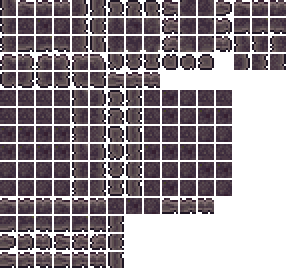
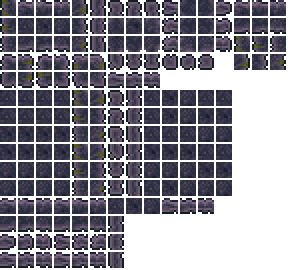
Cursed Spirit charging glowup + minor shit
(Spritesheet updates, cursed spirit stat adjustment/ scaling, spirit visual touchups, whatever)

diff --git a/src/EvilExpansionMod/Content/Corruption/NPCs/_Effigy/CursedSpiritNPC.cs b/src/EvilExpansionMod/Content/Corruption/NPCs/_Effigy/CursedSpiritNPC.cs
@@ -21,7 +21,6 @@ using Terraria.ModLoader;
 using Daybreak.Common.Rendering;
 
 namespace EvilExpansionMod.Content.Corruption;
-
 public enum SpiritType {
     Splitter,
     Exploder,
@@ -109,6 +108,7 @@ public sealed class CursedSpiritNPC : ModNPC {
         NPC.width = 38;
         NPC.height = 38;
         NPC.lifeMax = MaxLife;
+        NPC.defense = 28;
         NPC.value = 150;
         NPC.noTileCollide = true;
         NPC.aiStyle = -1;
@@ -144,8 +144,9 @@ public sealed class CursedSpiritNPC : ModNPC {
             _trailPositions[i] = NPC.Center;
         }
 
-        SpiritType = SpiritType.Ram;
+        SpiritType = (SpiritType)Main.rand.Next(0, 3);
         //SpiritType = (SpiritType)Main.rand.Next(0, 3);
+        //SpiritType = SpiritType.XXX;
         switch(SpiritType) {
             case SpiritType.Splitter:
                 _data.Splitter = new()
@@ -317,7 +318,7 @@ public sealed class CursedSpiritNPC : ModNPC {
                         ExplosionProjectile.New(
                             NPC.GetSource_Death(),
                             NPC.Center,
-                            40,
+                            (int)(NPC.damage*1.5 / difficultyScaler),
                             Color.Yellow,
                             Color.LightGoldenrodYellow,
                             size: ExplosionRange,
@@ -353,10 +354,42 @@ public sealed class CursedSpiritNPC : ModNPC {
             case RamState.Charge:
                 UpdateLookDirection(directionToTarget);
 
-                NPC.velocity *= 0.99f;
+                NPC.velocity *= 0.98f;
+
+                Dust.NewDust(NPC.Center + Main.rand.NextVector2Circular(15, 15) + Main.rand.NextVector2Circular(15, 15), 2, 2, DustID.CursedTorch, Main.rand.NextFloat(-3f, 3f), Main.rand.NextFloat(-3f, 3f), 0, new Color(207, 255, 0));
+                var particle = SmokeParticle.Pool.RequestParticle();
+
+                Vector2 randomVelocity = new Vector2(
+                    Main.rand.NextFloat(-1.5f, 1.5f),
+                    Main.rand.NextFloat(-2f, -0.5f)
+                );
+
+                Color smokeColor = Color.Lerp(Color.White, Color.Black, Main.rand.NextFloat());
+                float scale = Main.rand.NextFloat(0.1f, 1.2f);
+                int lifetime = Main.rand.Next(40, 90);
+
+                particle.Spawn(NPC.Center + Main.rand.NextVector2Circular(15, 45), randomVelocity, smokeColor, scale, lifetime);
+
                 if(Timer > 60 * 1.5f && Main.netMode != NetmodeID.MultiplayerClient) {
                     _data.Ram.DashDirection = directionToTarget;
-                    NPC.velocity = _data.Ram.DashDirection * 0.8f;
+                    if(Main.expertMode) {
+                        NPC.velocity = _data.Ram.DashDirection * 32f;
+                    }
+                    else {
+                        NPC.velocity = _data.Ram.DashDirection * 25f;
+                    }
+                    float difficultyScaler = Main.expertMode ? (Main.masterMode ? 3f : 2f) : 1f;
+                    Projectile.NewProjectile(
+                        NPC.GetSource_FromAI(),
+                        NPC.Center,
+                        new Microsoft.Xna.Framework.Vector2(0f, 0f),
+                        ModContent.ProjectileType<SpiritContactExplosion>(),
+                        (int)(NPC.damage / difficultyScaler),
+                        //For the projectile damage, I have no idea why it deals double the value of the damage given by the above equation! Compensate in equation
+                        0.5f,
+                        Main.myPlayer);
+                    SoundEngine.PlaySound(SoundID.DD2_ExplosiveTrapExplode with { Volume = 1f }, NPC.Center);
+
                     SetState(RamState.Dash);
                 }
 
@@ -366,7 +399,7 @@ public sealed class CursedSpiritNPC : ModNPC {
                 _lookOffset = MathF.Min(moveSpeed * 0.25f, 1f);
 
                 NPC.velocity += _data.Ram.DashDirection * 0.7f;
-                NPC.velocity *= 0.97f;
+                NPC.velocity *= 0.95f;
 
                 if(Timer > 120) {
                     SetState(RamState.FlyAround);
@@ -385,8 +418,9 @@ public sealed class CursedSpiritNPC : ModNPC {
                 break;
         }
     }
-
+    float difficultyScaler = Main.expertMode ? (Main.masterMode ? 3f : 2f) : 1f;
     void FlyToTarget(Vector2 moveDirection) {
+
         UpdateLookDirection(moveDirection);
         _lookOffset = MathF.Min(_lookOffset + 0.05f, 0.75f);
 
@@ -405,7 +439,7 @@ public sealed class CursedSpiritNPC : ModNPC {
 
         fireballTimer -= 1;
         if(fireballTimer <= 0 && Target != null) {
-            fireballTimer = Main.rand.Next(220, 300);
+            fireballTimer = Main.rand.Next(220 / (int)difficultyScaler, 300 / (int)difficultyScaler);
 
             var position = NPC.Center;
             var velocity = Helper.InitialVelocityRequiredToHitPosition(
@@ -525,6 +559,22 @@ public sealed class CursedSpiritNPC : ModNPC {
         switch(SpiritType) {
             case SpiritType.Ram:
                 NPC.velocity = -NPC.velocity;
+                if (Main.expertMode) {
+                    float difficultyScaler = Main.expertMode ? (Main.masterMode ? 3f : 2f) : 1f;
+                    Projectile.NewProjectile(
+                            NPC.GetSource_FromAI(),
+                            NPC.Center,
+                            new Microsoft.Xna.Framework.Vector2(0f, 0f),
+                            ModContent.ProjectileType<SpiritContactExplosion>(),
+                            (int)(NPC.damage / difficultyScaler),
+                            //For the projectile damage, I have no idea why it deals double the value of the damage given by the above equation! Compensate in equation
+                            0.5f,
+                            Main.myPlayer);
+                    SoundEngine.PlaySound(SoundID.DD2_ExplosiveTrapExplode with { Volume = 1f }, NPC.Center);
+                 }
+                else {
+                    SoundEngine.PlaySound(SoundID.Item178 with { Volume = 1f } with { PitchRange = (-1.0f, -0.5f) }, NPC.Center);
+                }
                 SetState(RamState.Concussion);
                 break;
         }
@@ -602,11 +652,17 @@ public override bool PreDraw(SpriteBatch spriteBatch, Vector2 screenPos, Color d
         var maskRotation = NPC.direction == 1 ? NPC.rotation : NPC.rotation + MathF.PI;
         switch(SpiritType) {
             case SpiritType.Ram:
-                if(State<RamState>() == RamState.Charge) maskShake += Timer * 0.01f;
+                if(State<RamState>() == RamState.Charge) maskShake += Timer * 0.04f;
                 break;
             case SpiritType.Exploder:
                 if(State<ExploderState>() == ExploderState.Exploding) {
-                    maskShake += (Main.GameUpdateCount % 4 == 0 ? 1f : 0f) * Timer * 0.015f;
+                    maskShake += (Main.GameUpdateCount % 4 == 0 ? 1f : 0f) * Timer * 0.02f;
+                    maskRotation += Main.rand.NextFloat(-0.001f, 0.001f) * Timer;
+                }
+                break;
+            case SpiritType.Splitter:
+                if(State<SplitterState>() == SplitterState.Splitting) {
+                    maskShake += (Main.GameUpdateCount % 4 == 0 ? 1f : 0f) * Timer * 0.02f;
                     maskRotation += Main.rand.NextFloat(-0.001f, 0.001f) * Timer;
                 }
                 break;
@@ -621,7 +677,7 @@ public override bool PreDraw(SpriteBatch spriteBatch, Vector2 screenPos, Color d
             Vector2 drawPosition = NPC.Center - screenPos - (_data.Ram.DashDirection * 30f);
 
             float pulse = 1.5f + MathF.Sin(Main.GameUpdateCount * 0.35f) * 0.15f; 
-            float finalScale = NPC.scale * maskScale * pulse;
+            float finalScale = NPC.scale * maskScale * pulse - 0.2f;
 
             spriteBatch.End(out var ss);
             spriteBatch.Begin(ss with { BlendState = BlendState.Additive });
@@ -726,5 +782,49 @@ public override bool PreDraw(SpriteBatch spriteBatch, Vector2 screenPos, Color d
         }
 
         return false;
+    }
+}
+public class SpiritContactExplosion : ModProjectile {
+    public override string Texture => Assets.Images.Corruption.NPCs.Effigy.CursedSpiritExplode.KEY;
+    public override void SetDefaults() {
+        Projectile.width = 98;
+        Projectile.height = 98;
+        Projectile.hostile = true;
+        Projectile.friendly = false;
+        Projectile.DamageType = DamageClass.Ranged;
+        Projectile.tileCollide = false;
+        Projectile.ignoreWater = true;
+        Projectile.timeLeft = 30;
+        Projectile.penetrate = -1;
+
+        CooldownSlot = 0;
+
+        Projectile.aiStyle = -1;
+        Main.projFrames[Projectile.type] = 7;
+    }
+    public override void AI() {
+        // Visuals: Create dust explosion effects here
+        for(int i = 0; i < 5; i++) {
+            Dust.NewDust(Projectile.position, Projectile.width, Projectile.height, DustID.CursedTorch, Main.rand.NextFloat(-3f, 3f), Main.rand.NextFloat(-3f, 3f), 255, new Color(207, 255, 0));
+        }
+        Lighting.AddLight(Projectile.Center, 1.0f, 0.9f, 0.1f);
+        AnimateProjectile();
+    }
+    private const int FrameCount = 7;
+    private void AnimateProjectile() {
+        int frameDuration = 2;
+        Projectile.frameCounter++;
+        if(Projectile.frameCounter >= frameDuration) {
+            Projectile.frame++;
+            Projectile.frameCounter = 0;
+            if(Projectile.frame >= FrameCount) {
+                Projectile.active = false;
+            }
+        }
+    }
+   
+    public override void OnHitPlayer(Player target, Player.HurtInfo info) {
+        base.OnHitPlayer(target, info);
+        target.AddBuff(BuffID.CursedInferno, 125, false);
     }
 }
